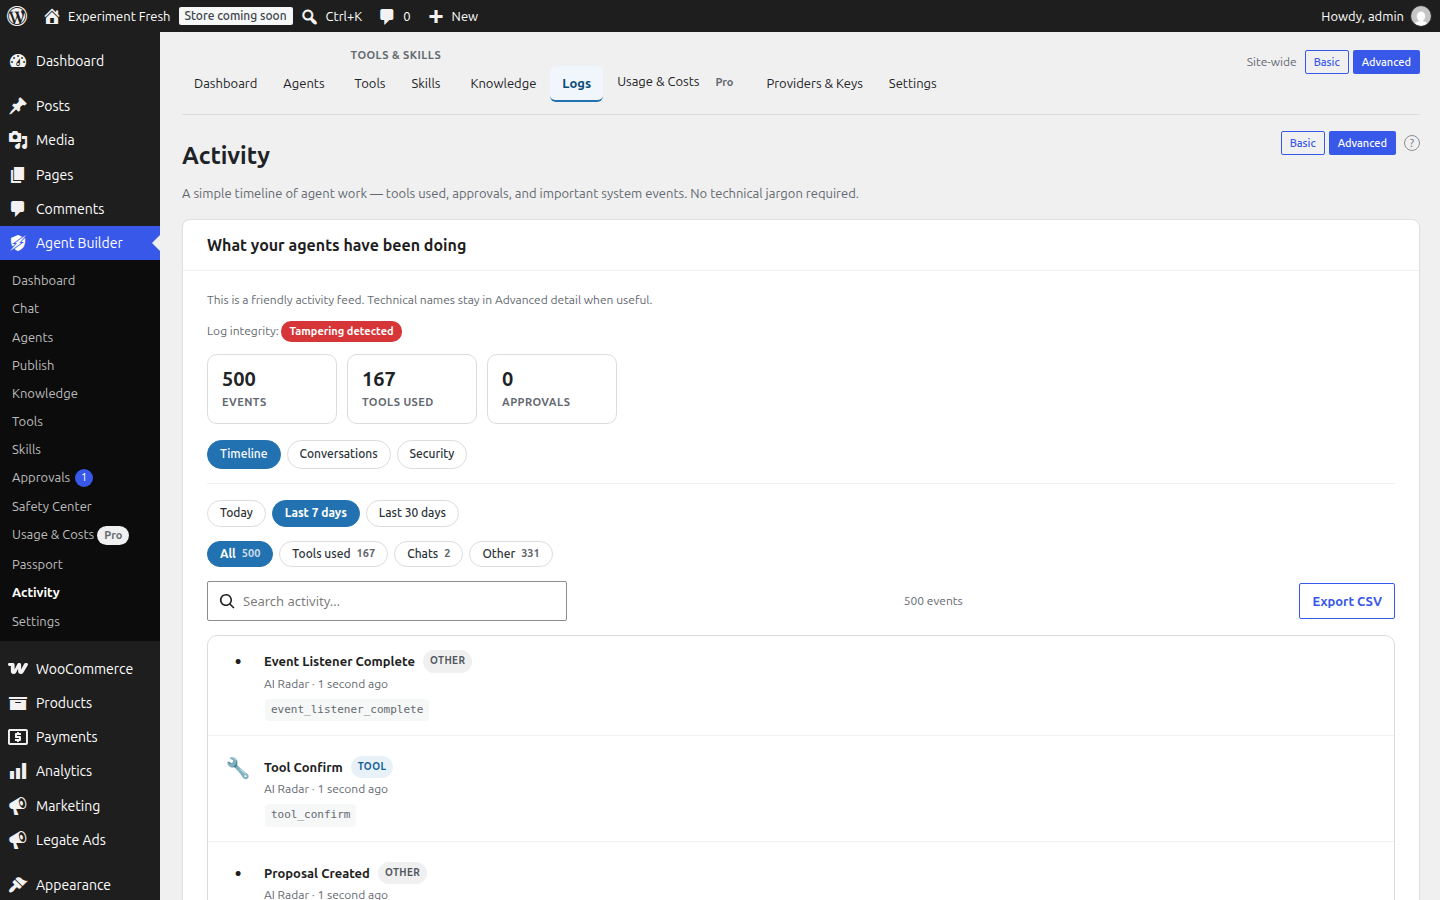
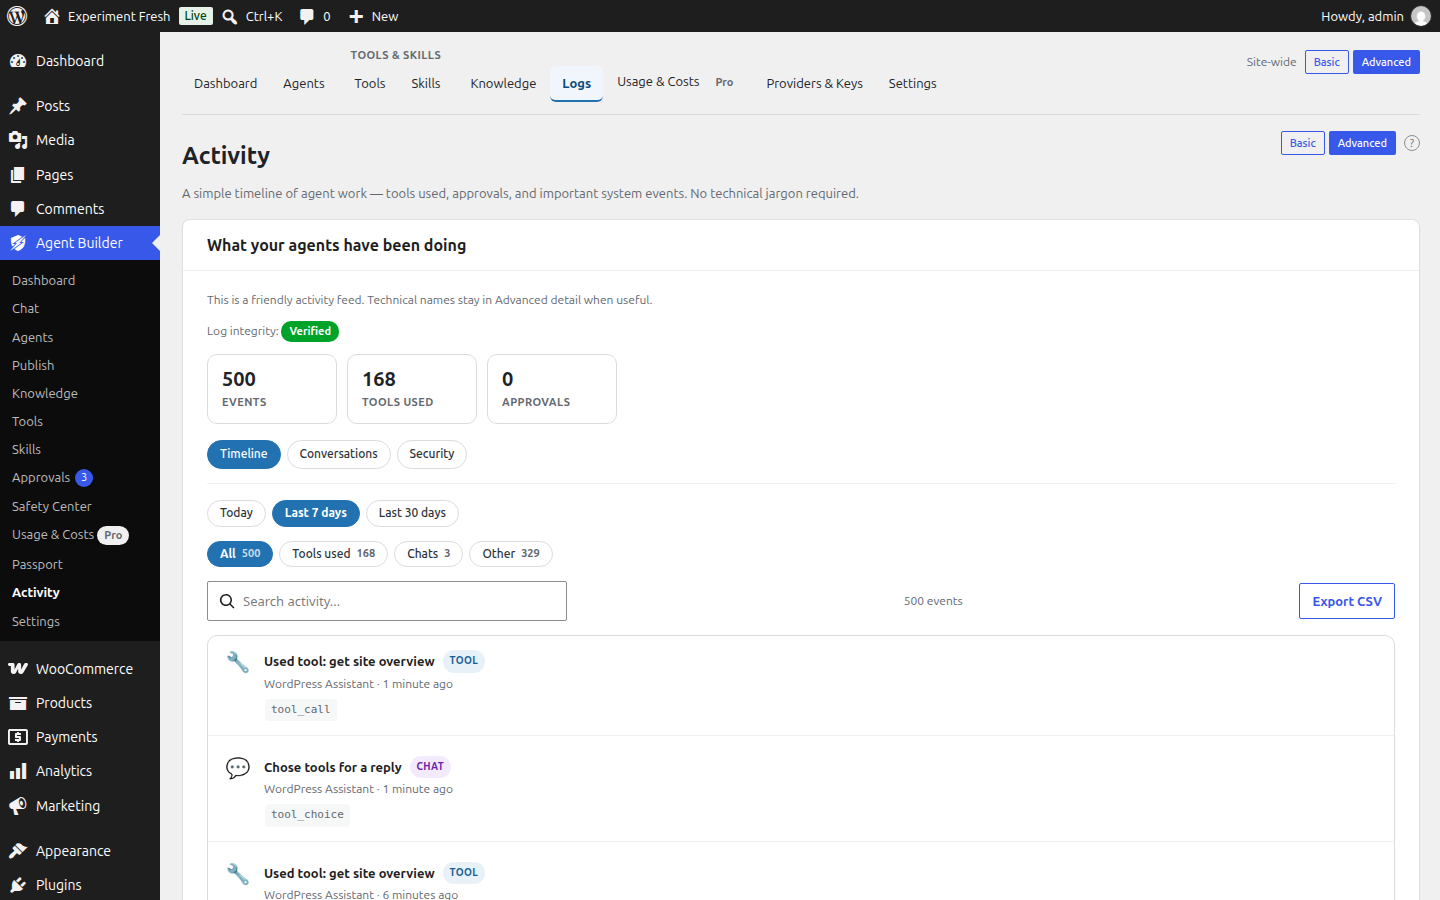
#118: Recapture WP.org listing screenshots on a cleaned experiment.test
- Screenshot capture convention: bin/screenshot-wporg.js now takes every
  shot as a plain 1440x900 viewport screenshot (no fullPage, no per-shot
  element clip). All 11 .wordpress-org/screenshot-N.png are now identical
  1440x900 dimensions, replacing the previous 1440x2541..1188x437 spread
  (ratio 0.57-2.72).
- Screenshot 4 (Approvals Queue) and 6 (Approvals Preferences) share one
  underlying admin screen; #4 now scrolls to the pending-queue list
  (scrollTo option) so it actually shows a queue instead of duplicating #6.
- experiment.test cleanup before recapturing:
  - Deleted the 4 QA/test agents (QA Wizard Test Agent, RAG Test
    Assistant, Uploaded Counter Test, User Counter Test) and 7 orphaned
    Agent Builder Pro agent rows left in wp_agentic_agent_library from a
    since-removed Pro install (ai-radar, media-assistant,
    plugin-assistant, security-assistant, seo-assistant, site-doctor,
    theme-assistant) — none of these ship in this free-core checkout's
    library/agents/. Agents Hub now shows exactly the real 11 bundled
    agents ("All (11)") instead of "All (22)".
  - Fully deactivated those same 11 slugs (they were still listed in the
    agentic_active_agents option even after their library rows were
    deleted, which is what kept ai-radar's event-listener cron firing).
  - Reset the audit-log hash chain: row #1678 was left in a deliberately
    broken tamper-detection test state (see class-audit-log-integrity.php)
[…]

diff --git a/bin/screenshot-wporg.js b/bin/screenshot-wporg.js
@@ -1,7 +1,16 @@
 // WP_ADMIN_USER=... WP_ADMIN_PASS=... node bin/screenshot-wporg.js
 // Recapture .wordpress-org/screenshot-N.png from the live experiment.test admin
-// in readme.txt Screenshots order. Viewport 1440×900; most shots are full-page,
-// Safety Center and Tools (Advanced) are viewport-height so they stay reviewable.
+// in readme.txt Screenshots order.
+//
+// Capture convention: every shot is a plain 1440×900 viewport screenshot (no
+// fullPage capture, no per-shot element clip). WP.org's directory gallery
+// renders every screenshot inside the same bounded frame, so a uniform
+// viewport keeps all 11 images at identical dimensions/aspect ratio instead
+// of the previous mix of full-page captures (some several screens tall) and
+// one tight single-card crop at a different width. List-heavy screens (e.g.
+// Agents Hub, Activity Log) show a representative top slice rather than
+// their full scrollable content — that's a deliberate trade for visual
+// consistency across the set, not an oversight.
 
 'use strict';
 
@@ -30,75 +39,69 @@ const REACT_ROOTS = [
 	'#agentic-deploy-wizard-root',
 ];
 
-// readme.txt == Screenshots == order.
+// readme.txt == Screenshots == order. Every shot is a 1440×900 viewport
+// capture (fullPage is never set) — see the file header comment.
 const SHOTS = [
 	{
 		n: 1,
 		page: 'agent-builder',
 		mode: 'advanced',
-		fullPage: true,
 	},
 	{
 		n: 2,
 		page: 'agentic-chat',
-		fullPage: true,
 		chat: true,
 	},
 	{
 		n: 3,
 		page: 'agentic-agents',
 		mode: 'advanced',
-		fullPage: true,
 	},
 	{
 		n: 4,
 		page: 'agentic-approvals',
 		mode: 'advanced',
-		fullPage: true,
+		// Same underlying screen as #6 (Preferences); scroll past the
+		// preferences cards so the actual pending-approvals queue —
+		// what this caption is about — is what ends up in frame.
+		scrollTo: '.agentic-react-approval-list',
 	},
 	{
 		n: 5,
 		page: 'agentic-tools',
 		mode: 'advanced',
-		fullPage: false,
 		wait: '.agentic-react-table',
 	},
 	{
 		n: 6,
 		page: 'agentic-approvals',
-		clip: '.agentic-react-approvals-prefs',
 		wait: '.agentic-react-approvals-prefs',
 	},
 	{
 		n: 7,
 		page: 'agentic-agent-ready',
 		mode: 'advanced',
-		fullPage: true,
 	},
 	{
 		n: 8,
 		page: 'agentic-audit-log',
 		mode: 'advanced',
-		fullPage: false,
 	},
 	{
 		n: 9,
 		page: 'agentic-safety-center',
 		mode: 'basic',
-		fullPage: false,
 		wait: '.agentic-safety-overview',
 	},
 	{
 		n: 10,
 		page: 'agentic-signup',
-		fullPage: true,
 		wait: '#agentic-signup-ui-mode',
 	},
 	{
 		n: 11,
 		page: 'agentic-settings',
 		query: 'tab=providers',
-		fullPage: true,
 	},
 ];
 
@@ -324,13 +327,15 @@ async function captureShot( page, shot ) {
 		);
 	}
 
-	if ( shot.clip ) {
-		const loc = page.locator( shot.clip ).first();
-		await loc.waitFor( { timeout: 20000 } );
-		await loc.screenshot( { path: dest } );
-	} else {
-		await page.screenshot( { path: dest, fullPage: !! shot.fullPage } );
+	if ( shot.scrollTo ) {
+		const loc = page.locator( shot.scrollTo ).first();
+		if ( ( await loc.count() ) > 0 ) {
+			await loc.scrollIntoViewIfNeeded();
+			await sleep( 300 );
+		}
 	}
+
+	await page.screenshot( { path: dest } );
 
 	console.log(
 		`ok    screenshot-${ shot.n }.png  →  ${ path.relative( process.cwd(), dest ) }`

diff --git a/README.md b/README.md
@@ -56,7 +56,7 @@ WordPress.org listing shots (`.wordpress-org/screenshot-N.png`, readme.txt order
 WP_ADMIN_USER=... WP_ADMIN_PASS=... npm run screenshot:wporg
 ```
 
-Safety Center and the Advanced Tools list are viewport-height (1440×900) so they stay reviewable; other screens are full-page. Optional `SCREEN=2,9` recaptures a subset.
+Every shot is a plain 1440×900 viewport capture — no full-page captures, no per-shot crops — so all 11 images share the same dimensions for the WP.org gallery. Optional `SCREEN=2,9` recaptures a subset.
 
 ## Releases
 
